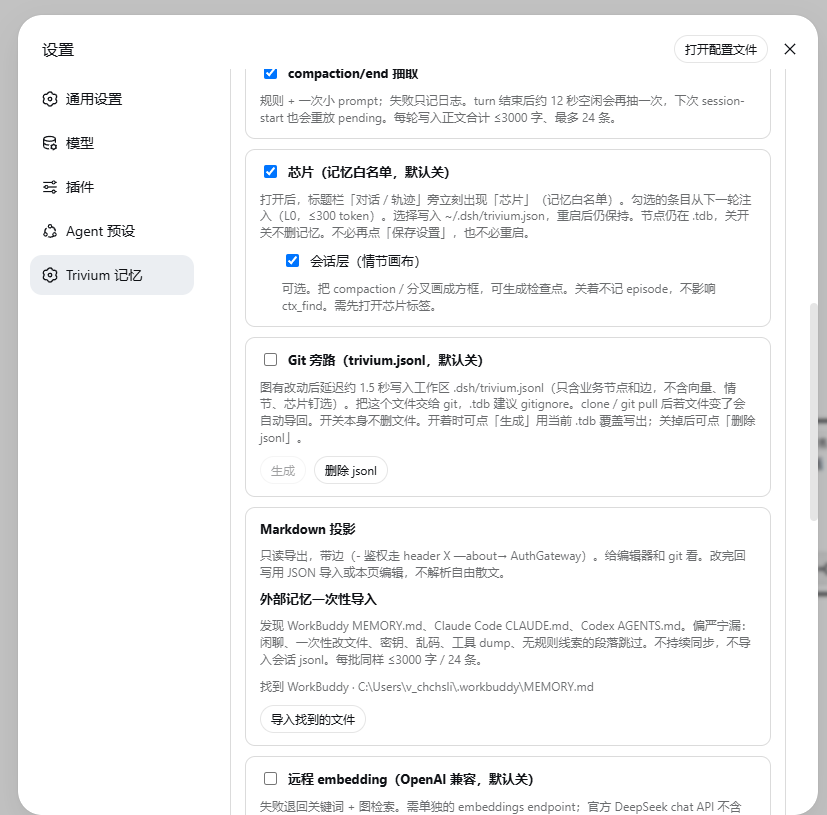
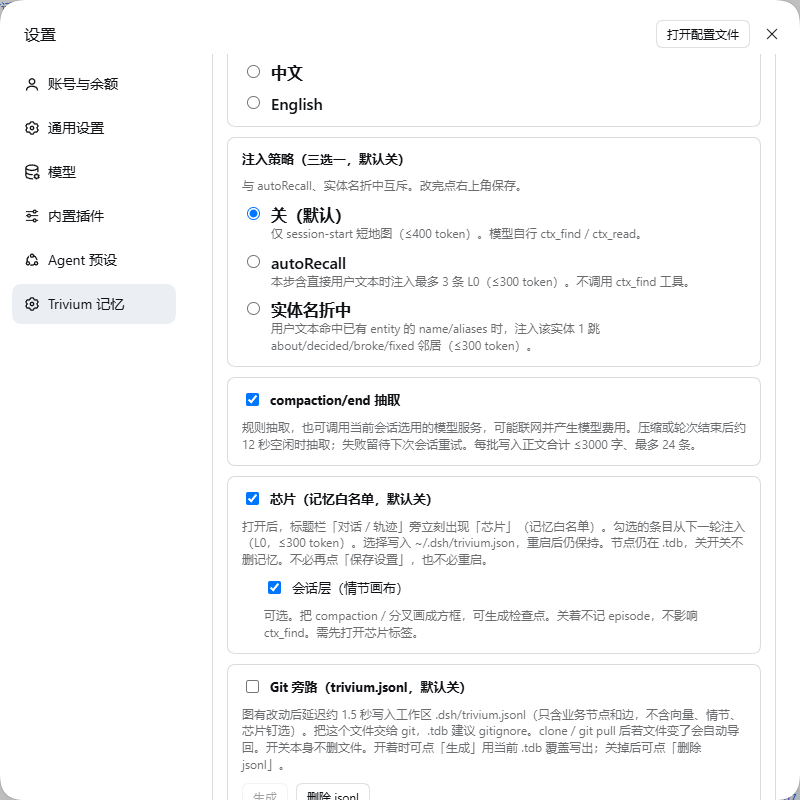
docs: refresh README screenshots on the 0.7.1 host
The six screenshots dated 2026-08 were captured on DSH Web 0.1.1-rc.2 and no
longer match the 0.7.1 settings page (memory entries / recall check tabs,
revision check, corrections). Re-captured on DSH Web 0.2.1-rc.4 with
dsh-trivium 0.7.1 at 1440x900: conversation ctx_find, trajectory, settings
overview, configuration fold, entry list, chips, plus a new recall-check shot.
Both READMEs now state the real host/plugin versions and that the images are a
UI tour, not acceptance evidence.

diff --git a/README.md b/README.md
@@ -226,7 +226,7 @@ The kernel is still these four. Chips / session layer do not add a fifth tool.
 
 ## Screenshots
 
-Historical screenshots captured inside DSH Web (`0.1.1-rc.2`), illustrating the earlier Chinese UI. They do not establish 0.7.0 acceptance or show every current control. For versioned evidence and current limitations, see the [documentation index](docs/README.md). The plugin follows the host language unless you choose Chinese / English under **Settings**.
+Captured on 2026-10-28 inside DSH Web `0.2.1-rc.4` with `dsh-trivium@0.7.1`, Chinese host UI. They are a UI tour, not acceptance evidence — versioned proof and current limits stay in the [documentation index](docs/README.md). The plugin follows the host language unless you pick Chinese / English under **Settings → Trivium memory → Configuration**.
 
 ### Conversation — `ctx_find("鉴权")`
 
@@ -242,7 +242,7 @@ Session-start injects the short map; the model calls `ctx_find` and hits “auth
 
 <img width="560" alt="Settings config" src="docs/screenshots/04-settings.png">
 
-Check for updates sits above a collapsed **Configuration** fold (plugin language, injection strategy).
+Check for updates sits above a collapsed **Configuration** fold (plugin language, injection strategy). Below it are the **Memory entries** and **Recall check** tabs.
 
 ### Settings — extract, chips, Git sidecar
 
@@ -253,6 +253,14 @@ Nested under chips: **Session layer (plot canvas)**. Git sidecar, Markdown expor
 ### Settings — memory entries
 
 <img width="560" alt="Entry list" src="docs/screenshots/06-settings-list.png">
+
+Type filter, text search, and the **show stale** / **show superseded** toggles sit above the list; each card shows its own archive / delete actions.
+
+### Settings — recall check
+
+<img width="560" alt="Recall check" src="docs/screenshots/08-recall-check.png">
+
+The **Recall check** tab shows this turn's estimated budget, a read-only dry run of one query, the revision-chain check, pending / sent corrections, and the latest recall diagnostics. Opening it or running the dry run does not call the model and does not request embeddings.
 
 ### Chips — optional, next to Conversation / Trajectory
 
